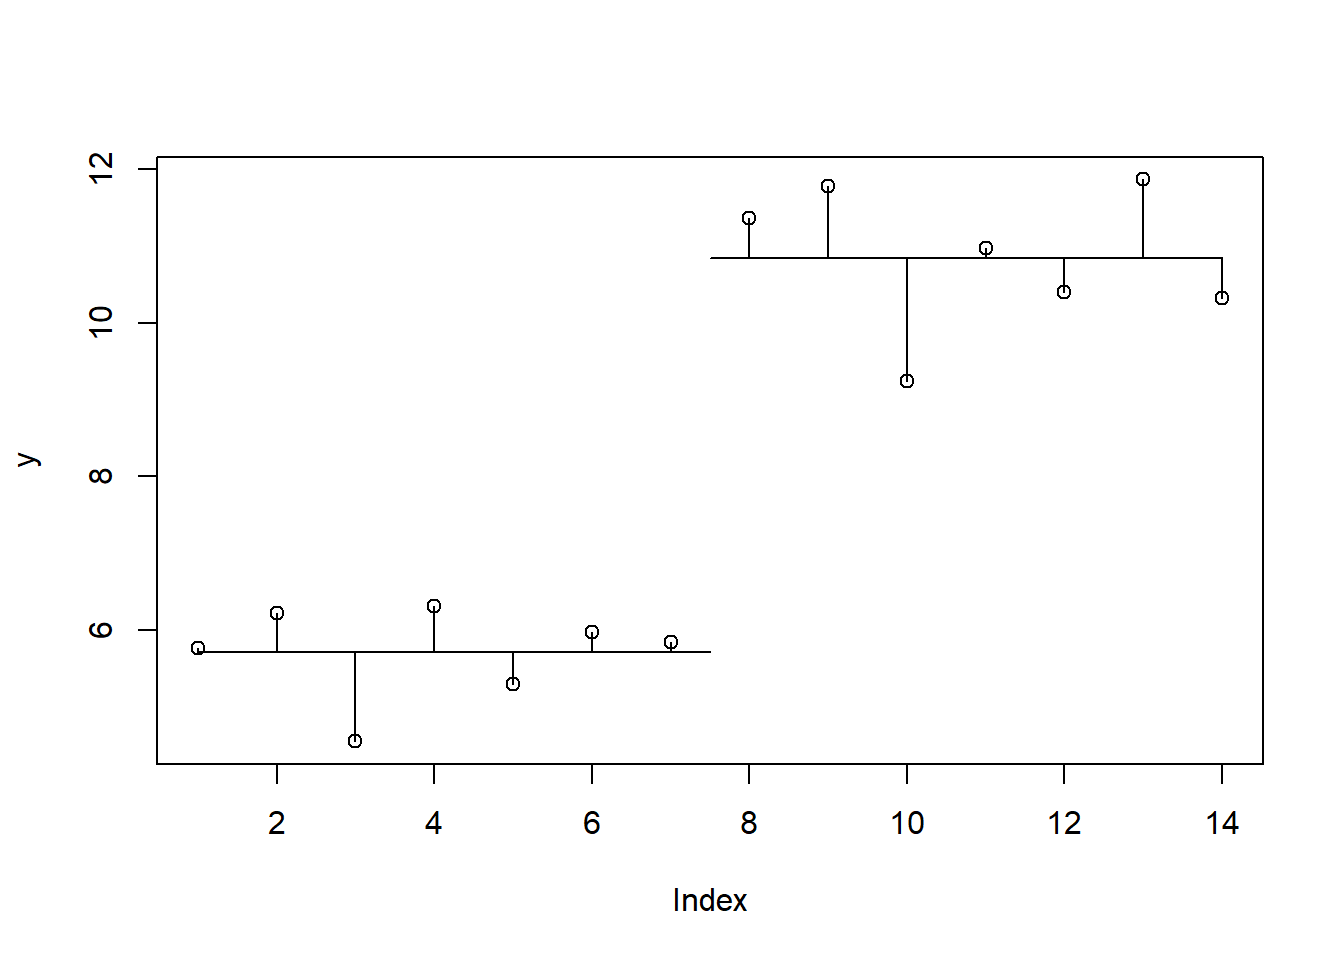
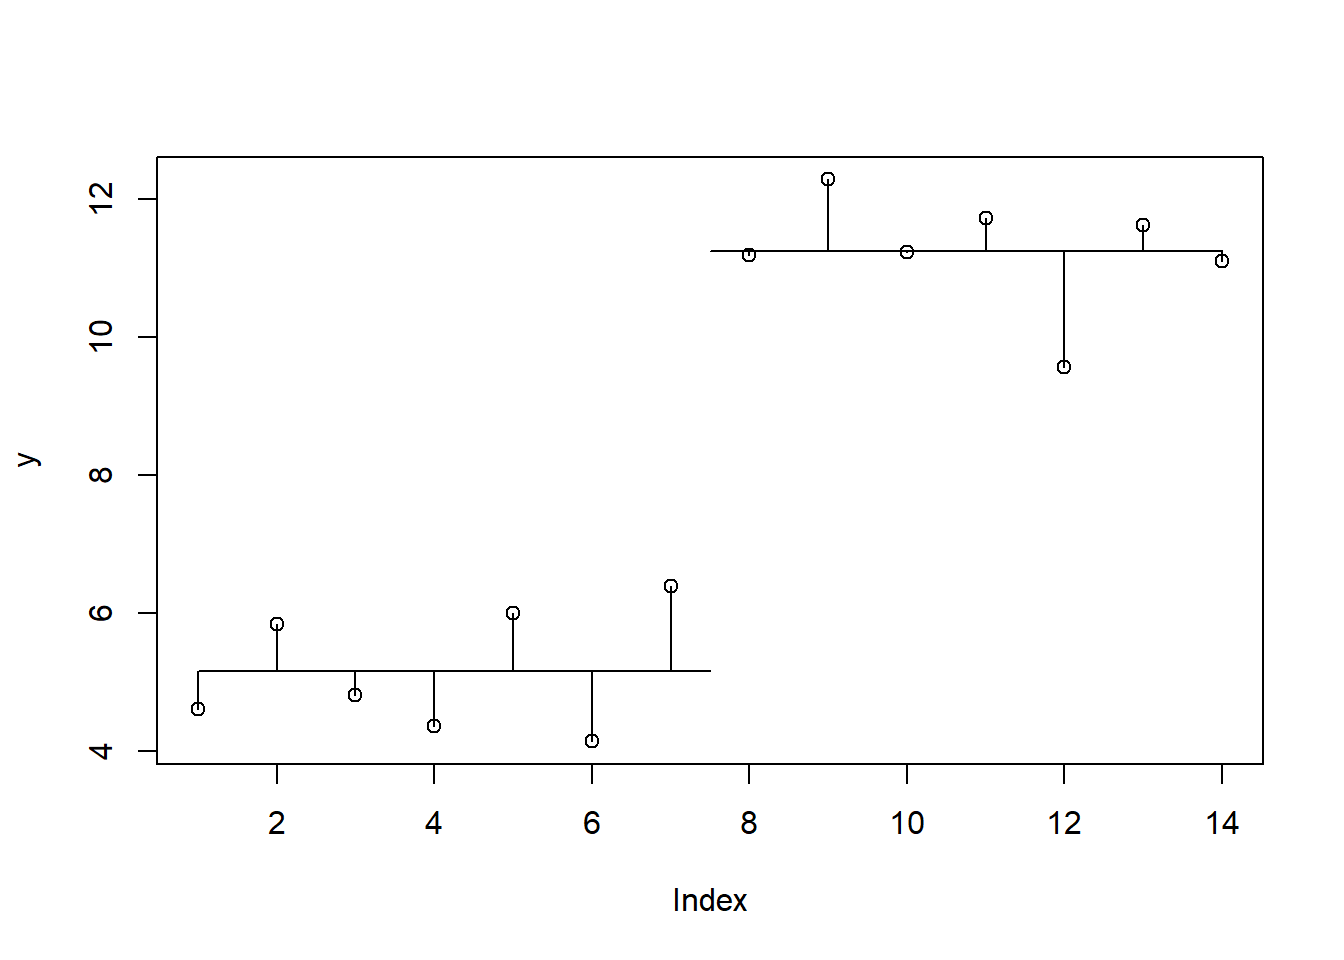
Detalles de prueba de hipótesis

diff --git a/Blog/_site/posts/concepto-y-modelos-experimentar/index.html b/Blog/_site/posts/concepto-y-modelos-experimentar/index.html
@@ -309,7 +309,7 @@ Pr(vampiro|positivo) = \frac{95}{1094} ≈ 0.087
 <section id="probabilidad-de-errar" class="level4">
 <h4 class="anchored" data-anchor-id="probabilidad-de-errar">Probabilidad de <em>errar</em></h4>
 <p>Supongamos que la probabilidad de un hallazgo positivo, cuando una hipótesis es falsa, es <span class="math inline">\({Pr(señal~detectada|falso) = Pr(H|F) = 0.05}\)</span>.</p>
-<p>Esa es la tasa de falsos positivos, se trata del, digamos 5%, de la <strong>prueba de significancia</strong> cque usamos onvencionalmente.</p>
+<p>Esa es la tasa de falsos positivos, se trata del, digamos 5%, de la <strong>prueba de significancia</strong> que usamos convencionalmente.</p>
 </section>
 <section id="cuál-será-el-estado-real-del-mundo" class="level4">
 <h4 class="anchored" data-anchor-id="cuál-será-el-estado-real-del-mundo">¿Cuál será el estado real del mundo?</h4>
@@ -475,7 +475,7 @@ H_0: m_1 = m_2 = m_3 = ... = m_k
 <span id="cb13-2"><a href="#cb13-2" aria-hidden="true" tabindex="-1"></a>anova.data<span class="sc">$</span>f <span class="ot">&lt;-</span> <span class="fu">factor</span>(<span class="fu">rep</span>(<span class="fu">c</span>(<span class="st">"a"</span>, <span class="st">"b"</span>), <span class="at">each =</span> <span class="dv">7</span>))  </span></code><button title="Copiar al portapapeles" class="code-copy-button"><i class="bi"></i></button></pre></div>
 </details>
 </div>
-<p>Pongamos estos datos en una gráfica simple, sgún el orden en el que fueron obtenidas las mediciones. Lo primero que haremos es definir la tabla de datos <strong>anova.data</strong>, como espacio de trabajo. Haremos esto con la funnción <code>attach()</code>. Esto hace que las variables contenidas en la tabla se puedan llamar directamente sin tener que anteponer el nombre de la estructura que las contiene. Esto es conveniente, pero si olvidamos regresar al espacio general de trabajo, con la función <code>detach()</code>, podemos encontrarnos con situaciones algo extrañas. En caso de que eso ocurra, resulta útil la función <code>search()</code>, que muestra los espacios de trabajo activos.</p>
+<p>Pongamos estos datos en una gráfica simple, sgún el orden en el que fueron obtenidas las mediciones. Lo primero que haremos es definir la tabla de datos <strong>anova.data</strong>, como espacio de trabajo. Haremos esto con la función <code>attach()</code>. Esto hace que las variables contenidas en la tabla se puedan llamar directamente sin tener que anteponer el nombre de la estructura que las contiene. Esto es conveniente, pero si olvidamos regresar al espacio general de trabajo, con la función <code>detach()</code>, podemos encontrarnos con situaciones algo extrañas. En caso de que eso ocurra, resulta útil la función <code>search()</code>, que muestra los espacios de trabajo activos.</p>
 <div class="cell">
 <details>
 <summary>Código</summary>
@@ -503,7 +503,7 @@ H_0: m_1 = m_2 = m_3 = ... = m_k
 <span id="cb16-2"><a href="#cb16-2" aria-hidden="true" tabindex="-1"></a>dist_med_y</span></code><button title="Copiar al portapapeles" class="code-copy-button"><i class="bi"></i></button></pre></div>
 </details>
 <div class="cell-output cell-output-stdout">
-<pre><code>[1] 35.94911</code></pre>
+<pre><code>[1] 42.61764</code></pre>
 </div>
 </div>
 <p>Ahora incorporemos la información del factor <strong><em>f</em></strong>. Para esto hay que calcular los promedios de “y” que corresponden a los niveles de <strong><em>f</em></strong></p>
@@ -515,7 +515,7 @@ H_0: m_1 = m_2 = m_3 = ... = m_k
 </details>
 <div class="cell-output cell-output-stdout">
 <pre><code>        a         b 
- 5.713246 10.848832 </code></pre>
+ 5.162983 11.251218 </code></pre>
 </div>
 </div>
 <p>Grafiquemos esta nueva estructura de datos.</p>
@@ -542,7 +542,7 @@ H_0: m_1 = m_2 = m_3 = ... = m_k
 <span id="cb21-2"><a href="#cb21-2" aria-hidden="true" tabindex="-1"></a>dist_med_s</span></code><button title="Copiar al portapapeles" class="code-copy-button"><i class="bi"></i></button></pre></div>
 </details>
 <div class="cell-output cell-output-stdout">
-<pre><code>[1] 13.31547</code></pre>
+<pre><code>[1] 14.12018</code></pre>
 </div>
 </div>
 </section>
@@ -579,8 +579,8 @@ H_0: m_1 = m_2 = m_3 = ... = m_k
 </div>
 </section>
 </section>
-<section id="disposición-de-tratamientos-e-interéses-sobre-los-factores" class="level2">
-<h2 class="anchored" data-anchor-id="disposición-de-tratamientos-e-interéses-sobre-los-factores">Disposición de tratamientos e interéses sobre los factores</h2>
+<section id="disposición-de-tratamientos-e-intereses-sobre-los-factores" class="level2">
+<h2 class="anchored" data-anchor-id="disposición-de-tratamientos-e-intereses-sobre-los-factores">Disposición de tratamientos e intereses sobre los factores</h2>
 <section id="efectos-fijos" class="level3">
 <h3 class="anchored" data-anchor-id="efectos-fijos">Efectos fijos</h3>
 <p>Quizás la forma más simple de identificar las variables explicativas que tienen efectos fijos es pensar en ellas como variables cuyos niveles identifican en forma completa las condiciones de interés para el investigador. Por ejemplo, en el caso de un experimento que analiza el desempeño de larvas de mariposa que toman una dieta rica en proteinas y al mismo tiempo están expuestas a la presencia o no de un alcaloide. Estamos interesados precisamente en esas dietas y en la presencia o no del alcaloide. Estos dos factores son fijos. Es el tipo de variables que normalmente consideramos en nuestros objetivos de investigación. Se asume que su identificación y definición es completa, se asume que no hay más niveles de interés que los definidos y por lo tanto el modelo resultante no puede utilizarse para predecir fuera del ámbito de esas definiciones.</p>
@@ -644,31 +644,27 @@ H_0: m_1 = m_2 = m_3 = ... = m_k
 <h3 class="anchored" data-anchor-id="críticas">Críticas</h3>
 <p>Entre las críticas que se han hecho al procedimiento clásico de <strong><em>prueba de hipótesis</em></strong> está la que señala que el valor <em>p</em>, al excluir el valor de cero como valor plausible para el parámetro, no aporta información completa sobre los valores que sí son plausibles. Esto implica que la <em>significancia estadística</em> no implica <em>relevancia práctica</em>.</p>
 </section>
-<section id="cómo-interpretas-esta-afirmación." class="level3">
-<h3 class="anchored" data-anchor-id="cómo-interpretas-esta-afirmación."><span style="color:GoldenRod"><strong>¿Cómo interpretas esta afirmación?</strong></span>.</h3>
+<section id="cómo-interpretas-esta-afirmación" class="level3">
+<h3 class="anchored" data-anchor-id="cómo-interpretas-esta-afirmación"><span style="color:GoldenRod"><strong>¿Cómo interpretas esta afirmación?</strong></span></h3>
 <p>En el mismo razonamiento, un “valor de <em>p</em> extremadamente significativo” no hace otra cosa que excluir el cero como valor plausible para el parámetro no precisamente sobre la calidad del hallazgo.</p>
 <p>Otra crítica señala que interpretar el valor <em>p</em> en términos de <em>evidencia en contra de la hipótesis nula</em> (siguiendo el pensamiento de Fisher) o <em>la plausibilidad de que la hipótesis nula sea falsa</em> a veces se expresan equivocadamente como la probabilidad de que la hipótesis nula sea falsa en consideración de la evidencia (<em>E</em>) disponible. Al plantearlo así, formalmente se enuncia como <span class="math inline">\(P(H_{0}|E)\)</span>. Pero esto no es apropiado, formalmente resulta ser una inconsistencia en la lógica del planteamiento.</p>
 </section>
 <section id="puedes-reconocer-esta-inconsistencia" class="level3">
 <h3 class="anchored" data-anchor-id="puedes-reconocer-esta-inconsistencia"><span style="color:GoldenRod"><strong>¿Puedes reconocer esta inconsistencia?</strong></span></h3>
 <p>La inconsistencia está en que, en primer lugar como dije arriba, el valor <em>p</em> se define dentro del marco frecuentista y se concibe que los parámetros son valores constantes, aunque desconocidos (¡supuesto estadístico de efectos fijos!). No se trata de los parámetros de alguna distribución de probabilidades (observada o no). Por tanto, no tiene sentido asignar probabilidades a los distintos valores estimados del parámetro.</p>
-<p>Además, el valor <em>p</em> se calcula bajo el supuesto de que la hipótesis nula es cierta; esto hace imposible, por construcción, interpretarlo como la probabilidad de que la hipótesis alternativa sea cierta.</p>
-</section>
-<section id="puedes-comentar-esto-a-la-luz-del-ejemplo-de-la-noche-de-cartas" class="level3">
-<h3 class="anchored" data-anchor-id="puedes-comentar-esto-a-la-luz-del-ejemplo-de-la-noche-de-cartas"><span style="color:GoldenRod"><strong>¿Puedes comentar esto a la luz del ejemplo de la <em>noche de cartas</em>?</strong></span></h3>
-<p>La probabilidad a la que se refiere el valor <em>p</em> guarda más relación con la probabilidad inversa, <span class="math inline">\(P(E|H{0})\)</span>. Esto se conoce como la verosimilitud, es decir, la probabilidad de observar los datos que se han obtenido en un estudio, los que entonces conviene valorar como <em>condicionales</em> a los supuestos hechos en el modelo estadístico y la hipótesis nula.</p>
-<p>La probabilidad que realmente interesa -por ejemplo, al investigador de nuestro ejemplo- es la anteriormente mencionada <span class="math inline">\(P(H_{0}|E)\)</span>. Aunque no está definida dentro del marco frecuentista, en el marco Bayesiano sí se define. Las probabilidades <span class="math inline">\(P(E|H_{0})\)</span> y <span class="math inline">\(P(H_{0}|E)\)</span> no son iguales, pero,</p>
+<p>Además, el valor <em>p</em> se calcula bajo el supuesto de que la hipótesis nula es cierta; esto hace imposible, por construcción, interpretarlo como la probabilidad de que la hipótesis alternativa sea cierta. La probabilidad a la que se refiere el valor <em>p</em> guarda más relación con la probabilidad inversa, <span class="math inline">\(P(E|H{0})\)</span>. ¿Qué tan probable sería tener una muestra como la que tenemos enfrente, si la hipótesis considerada fuera cierta?. Esto se conoce como la <strong>verosimilitud</strong>, es decir, la probabilidad de observar los datos que se han obtenido en un estudio suponiendo que los atributos del modelo fueran ciertos. La verosimilitud valora a la muestra como un resultado <em>condicional</em> a los supuestos hechos en el modelo estadístico y en este caso, la hipótesis nula.</p>
+<p>Sin embargo, la probabilidad que realmente interesa -por ejemplo, al investigador de nuestro ejemplo- es la anteriormente mencionada <span class="math inline">\(P(H_{0}|E)\)</span>. Aunque no está definida dentro del marco frecuentista, en el marco Bayesiano sí se define. Las probabilidades <span class="math inline">\(P(E|H_{0})\)</span> y <span class="math inline">\(P(H_{0}|E)\)</span> no son iguales.</p>
 </section>
 <section id="recuerdas-qué-representa-cada-uno-de-ellas-cuál-es-la-relación-entre-ambas" class="level3">
 <h3 class="anchored" data-anchor-id="recuerdas-qué-representa-cada-uno-de-ellas-cuál-es-la-relación-entre-ambas"><span style="color:GoldenRod"><strong>¿Recuerdas qué representa cada uno de ellas? ¿cuál es la relación entre ambas?</strong></span></h3>
 <p>Otra crítica interesante surge de la llamada paradoja de Lindley (1957), quien mostró, con una formulación Bayesiana, que existe la posibilidad de tener datos congruentes con rechazar una hipótesis nula con un bajo valor <em>p</em> y que al mismo tiempo llevan a una probabilidad posterior alta.</p>
-<p>Encontró que es perfectamente posible, a partir de los mismos datos <em>E</em>, obtener al mismo tiempo una <span class="math inline">\(P(E|H_{0})\)</span> = 0.05 (baja probabilidad de obtener una muestra como la que se observó, si <span class="math inline">\(H_{0}\)</span> fuera cierta) y <span class="math inline">\(P(H_{0}|E)\)</span> = 0.95 (fuerte evidencia en favor de <span class="math inline">\(H_{0}\)</span>). Este resultado contradictorio pone en duda la validez de la interpretación del valor <em>p</em> como “evidencia en contra de la hipótesis nula”.</p>
-<p>Se ha contrargumentado que la paradoja requiere muestras grandes para manifestarse, y se oponen a los supuestos adicionales que requiere el análisis Bayesiano. Se ha defenddo que bajo condiciones razonables, un bajo valor <em>p</em> generalmente implica una baja probabilidad posterior, es decir, poca evidencia para la hipótesis nula. Sin embargo, a pesar de esta defensa al enfoque <em>clásico</em>, se ha encontrado que los valores <em>p</em> sistemáticamente sobrestiman la evidencia en contra de la hipótesis nula.</p>
-<p>En resumen, el valor mismo de <em>p</em>, resultado de una prueba clásica de hipóteis, no aporta mucha información de interés para los investigadores. En caso de aceptar la hipótesis nula no se favorece llegar a ninguna conclusión sustancial, salvo que la nula probablemente es falsa.</p>
-<p>Para que quede claro, hay que insistir en que si el valor <em>p</em> es juzgado <strong><em>significativo</em></strong>, únicamente nos inclina a <strong>excluir un solo valor como estimador plausible</strong> para el parámetro. Peor aún, el significado de <strong>plausible</strong> en la última expresión tiene una relación nebulosa con la probabilidad que sí le interesa a los investigadores: <strong><em>la probabilidad posterior de que la hipótesis del estudio sea cierta a la luz de la evidencia recopilada</em></strong> <span class="math inline">\(P(H_{0}|E)P\)</span>.</p>
+<p>Encontró que es perfectamente posible, a partir de los mismos datos <em>E</em>, obtener al mismo tiempo una <span class="math inline">\(P(E|H_{0})\)</span> = 0.05 (baja probabilidad de obtener una muestra como la que se observó, si <span class="math inline">\(H_{0}\)</span> fuera cierta) y <span class="math inline">\(P(H_{0}|E)\)</span> = 0.95 (fuerte evidencia en favor de <span class="math inline">\(H_{0}\)</span>). Este resultado contradictorio permite ver lo cuestionable que resulta interpretar el <strong>valor <em>p</em> como evidencia en contra de la hipótesis nula.</strong></p>
+<p>Se ha contrargumentado que la paradoja requiere muestras grandes para manifestarse, y se oponen a los supuestos adicionales que requiere el análisis Bayesiano. Se ha defendido que bajo condiciones razonables, un bajo valor <em>p</em> generalmente implica una baja probabilidad posterior, es decir, poca evidencia para la hipótesis nula. Sin embargo, a pesar de esta defensa al enfoque <em>clásico</em>, se ha encontrado que los valores <em>p</em> sistemáticamente sobrestiman la evidencia en contra de la hipótesis nula.</p>
+<p>En resumen, el valor mismo de <em>p</em>, resultado de una prueba clásica de hipótesis, no aporta mucha información de interés para los investigadores. En caso de optar por la hipótesis alternativa con base en la <em>p</em>, no se favorece llegar a ninguna conclusión sustancial sobre posibles explicaciones alternativas, lo único que queda claro es que la nula probablemente es falsa.</p>
+<p>Para que quede claro, hay que insistir en que si el valor <em>p</em> es juzgado <strong><em>significativo</em></strong>, únicamente nos inclina a <strong>excluir un solo valor como estimador plausible</strong> para el parámetro. Peor aún, el significado de <strong>plausible</strong> en la última expresión tiene una relación nebulosa con la probabilidad que sí le interesa a los investigadores: <strong><em>la probabilidad posterior de que la hipótesis nula sea cierta a la luz de la evidencia recopilada</em></strong> <span class="math inline">\(P(H_{0}|E)\)</span>.</p>
 </section>
 <section id="qué-piensas-de-la-paradoja-de-lindley-y-sus-implicaciones" class="level3">
-<h3 class="anchored" data-anchor-id="qué-piensas-de-la-paradoja-de-lindley-y-sus-implicaciones"><span style="color:GoldenRod"><strong>¿Qué piensas de la paradoja de Lindley y sus implicaciones</strong></span>**</h3>
+<h3 class="anchored" data-anchor-id="qué-piensas-de-la-paradoja-de-lindley-y-sus-implicaciones"><span style="color:GoldenRod"><strong>¿Qué piensas de la paradoja de Lindley y sus implicaciones</strong></span></h3>
 </section>
 <section id="remedios-y-alternativas-para-la-prueba-estadística-de-la-hipótesis-nula" class="level3">
 <h3 class="anchored" data-anchor-id="remedios-y-alternativas-para-la-prueba-estadística-de-la-hipótesis-nula">Remedios y alternativas para la prueba estadística de la hipótesis nula</h3>

diff --git a/Blog/_site/index.html b/Blog/_site/index.html
@@ -162,7 +162,7 @@ ul.task-list li input[type="checkbox"] {
 
 <div class="quarto-listing quarto-listing-container-default" id="listing-listing">
 <div class="list quarto-listing-default">
-<div class="quarto-post image-right" data-index="0" data-categories="clase" data-listing-date-sort="1674799200000" data-listing-file-modified-sort="1674802334923" data-listing-reading-time-sort="25.97">
+<div class="quarto-post image-right" data-index="0" data-categories="clase" data-listing-date-sort="1674799200000" data-listing-file-modified-sort="1674862749845" data-listing-reading-time-sort="26.14">
 <div class="thumbnail">
 <p><a href="./posts/concepto-y-modelos-experimentar/index.html"> <img src="./posts/concepto-y-modelos-experimentar/images/vampiro-dracula.png" class="thumnail-image"> </a></p>
 </div>
